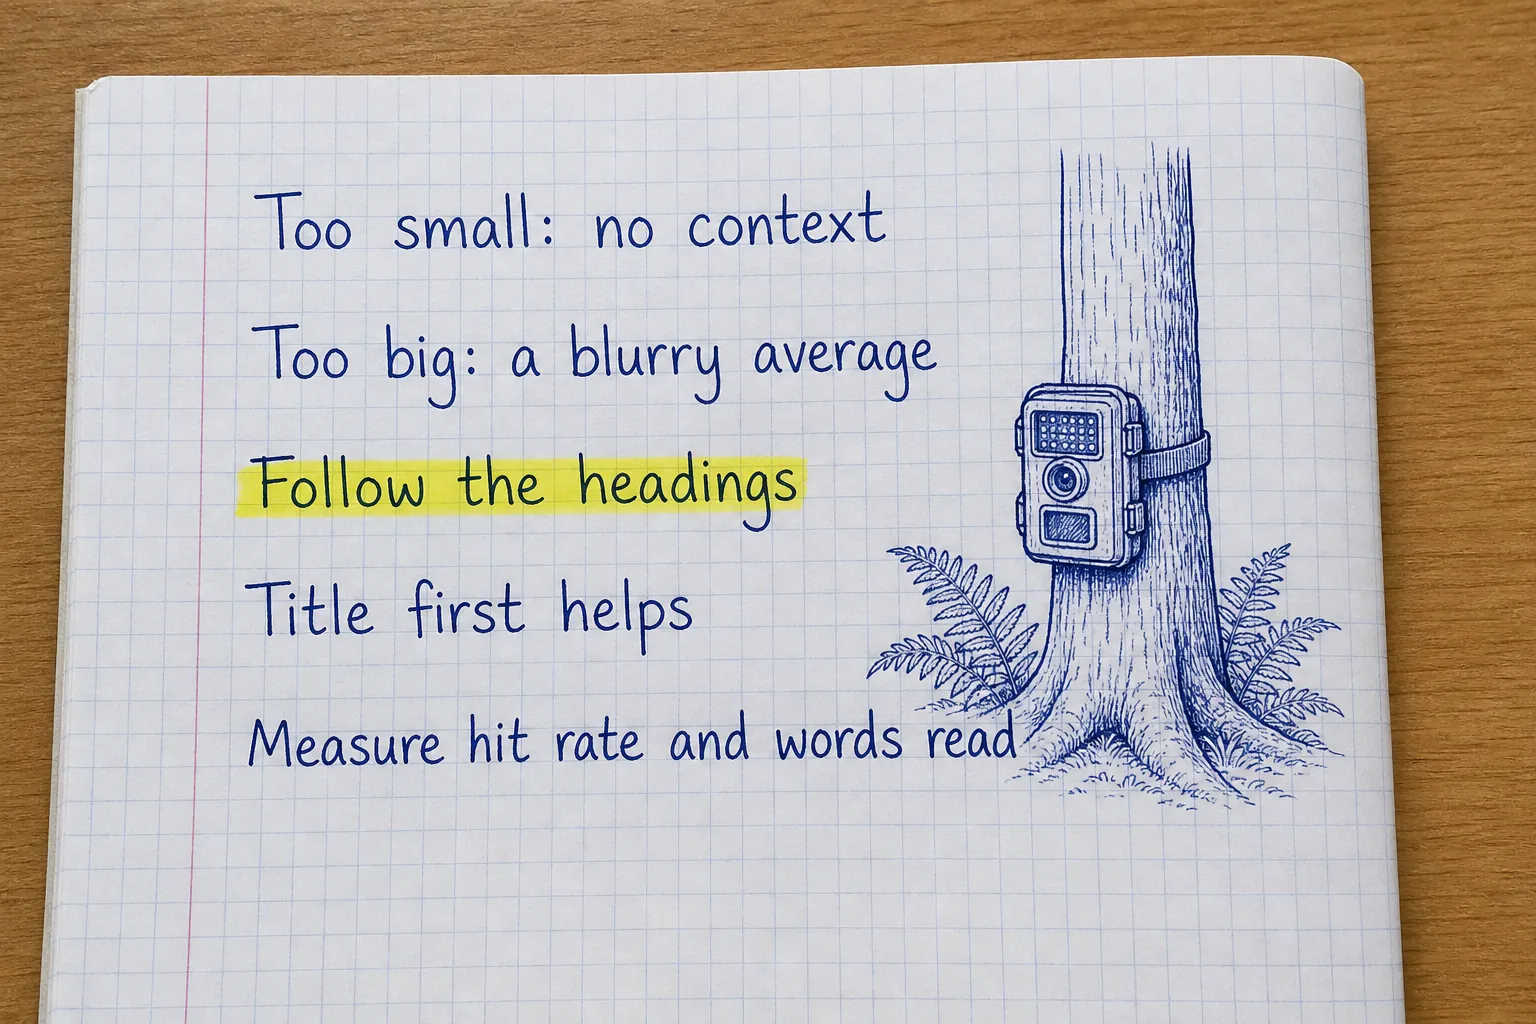
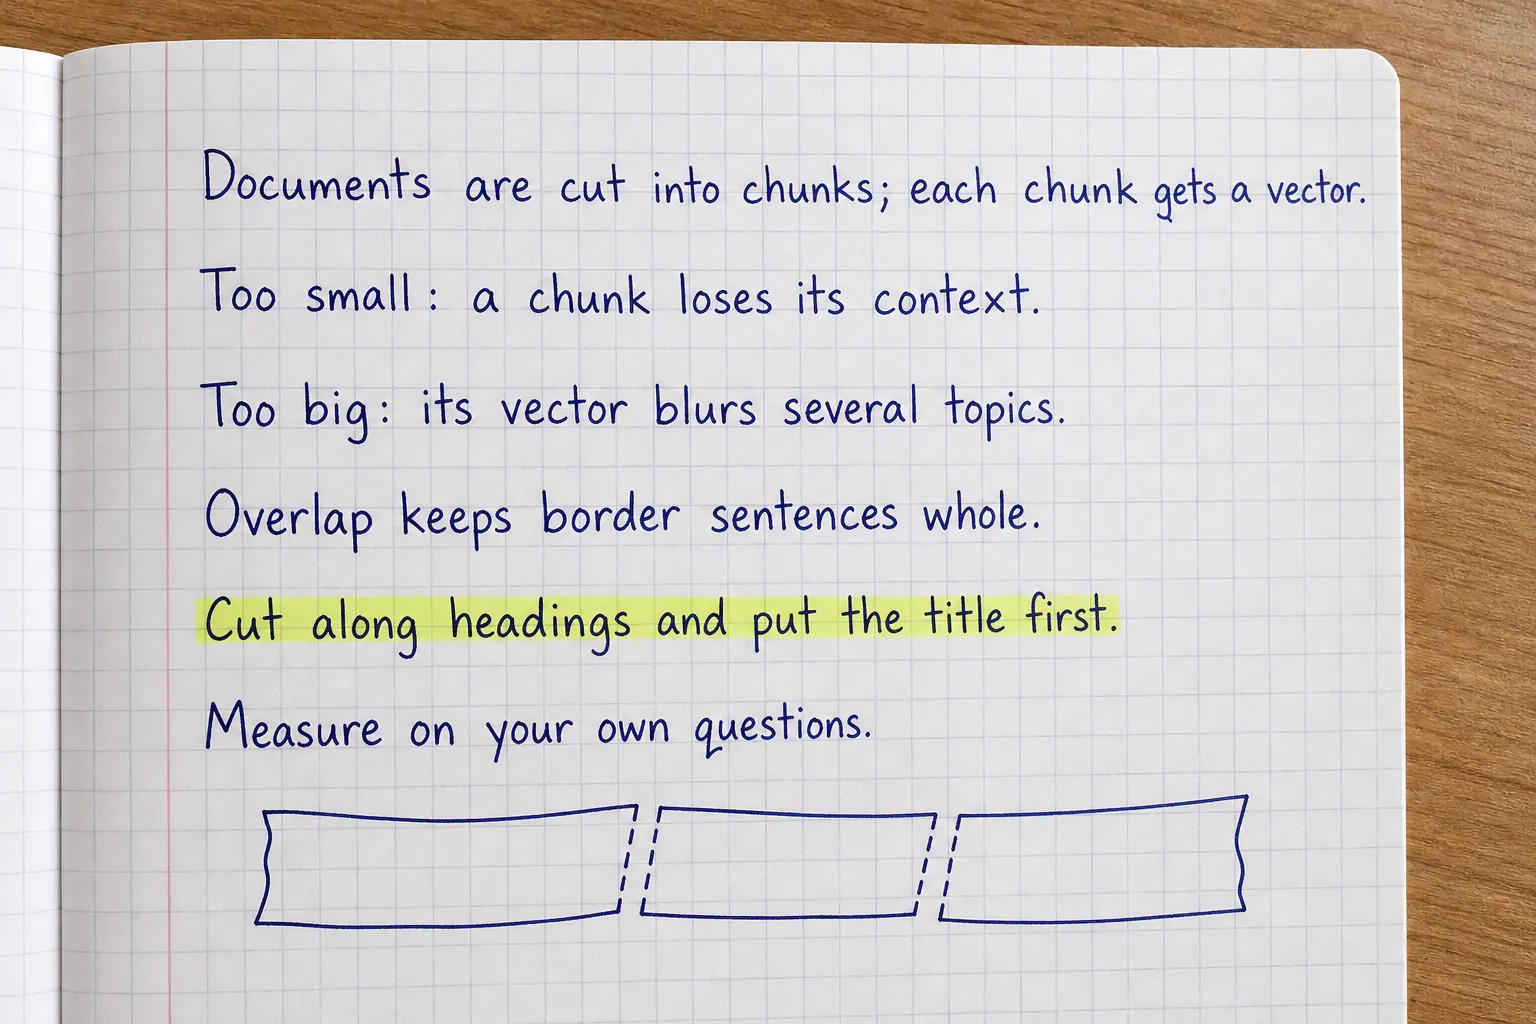
RAG chapter 4 rewritten: plain and fuller, a to-scale chunking picture with real results, claims checked

diff --git a/frontend/src/lesson/Diagrams.tsx b/frontend/src/lesson/Diagrams.tsx
@@ -3406,6 +3406,41 @@ function RagMatrix() {
   );
 }
 
+/** Three ways of cutting three real sections (FM-4.1 59 words, FM-4.2 66, FM-4.3 66), drawn to scale, with each
+ *  method's real hit@1 from chapter 4's comparison over the whole manual. */
+function RagChunks() {
+  const W = 440 / 191;                           // pixels per word: the three sections are 191 words
+  const secs = [["FM-4.1", 59], ["FM-4.2", 66], ["FM-4.3", 66]] as const;
+  const starts = [0, 59, 125];
+  const bar = (x: number, w: number, y: number, tone: string, key: string | number, label?: string) => (
+    <g key={key} className={`dg-box dg-${tone}`}>
+      <rect x={x} y={y} width={Math.max(2, w - 2)} height={26} rx={4} />
+      {label ? <text x={x + w / 2} y={y + 18} textAnchor="middle" style={{ fontSize: 12.5 }}>{label}</text> : null}
+    </g>
+  );
+  const borders = starts.slice(1).map((st) => st * W);
+  const row = (y: number, title: string, hit: string) => (
+    <><text className="dg-note" x={0} y={y - 6}>{title}</text><text className="dg-note" x={440} y={y - 6} textAnchor="end">hit@1 {hit}</text></>
+  );
+  return (
+    <Svg viewBox="0 0 440 352" label="Three sections cut four ways: 15-word windows, 60-word windows with overlap, 300-word windows, and one chunk per section; one chunk per section, title first, finds the right section first most often">
+      <text className="dg-note" x={0} y={14}>three sections of the manual, to scale (191 words)</text>
+      {secs.map(([id, n], i) => bar(starts[i] * W, n * W, 22, "accent", id, `${id}  (${n} words)`))}
+      {row(80, "windows of 15 words (cross the section borders)", "73%")}
+      {Array.from({ length: 13 }, (_, i) => bar(i * 15 * W, Math.min(15, 191 - i * 15) * W, 80, "plain", "a" + i))}
+      {row(138, "windows of 60 words, 10 overlapping", "77%")}
+      {[0, 50, 100, 150].map((st, i) => bar(st * W, Math.min(60, 191 - st) * W, 138 + (i % 2) * 14, "plain", "b" + i))}
+      {row(212, "windows of 300 words: one window holds all three and more", "77%")}
+      {bar(0, 440, 212, "plain", "c", "one blurry chunk about many things")}
+      {row(270, "one chunk per section, title first", "91%")}
+      {secs.map(([id, n], i) => bar(starts[i] * W, n * W, 270, "highlight", "d" + id, `${id}. title + text`))}
+      {borders.map((x) => <line key={x} x1={x} y1={20} x2={x} y2={300} className="dg-arrow" style={{ strokeDasharray: "3 4", markerEnd: "none" }} />)}
+      <text className="dg-note" x={0} y={326}>Dashed lines: where one section ends and the next begins.</text>
+      <text className="dg-note" x={0} y={344}>hit@1: how often the best chunk holds the right section (22 questions).</text>
+    </Svg>
+  );
+}
+
 function RagIvf() {
   return (
     <SketchSteps
@@ -3478,6 +3513,7 @@ const DIAGRAMS: Record<string, () => JSX.Element> = {
   "rag-flow": RagFlow,
   "rag-embed": RagEmbed,
   "rag-matrix": RagMatrix,
+  "rag-chunks": RagChunks,
   "rag-ivf": RagIvf,
   "rag-hnsw": RagHnsw,
   "rag-binary": RagBinary,

diff --git a/labs/rag-vector-databases/chapters/04-chunking.md b/labs/rag-vector-databases/chapters/04-chunking.md
@@ -1,15 +1,25 @@
 :::step{type=story title="How big is a piece?"}
 So far Fieldbook embedded whole sections: one vector for each of the manual's 31 numbered parts. That worked because
-somebody wrote the manual in short, tidy sections of 52 to 95 words. Real documents are rarely that kind: a 40-page
+somebody wrote the manual in short, tidy sections of 52 to 95 words each. Real documents are rarely like that: a 40-page
 research report, a 300-page procedures book, a scanned letter with no headings at all.
 
-You cannot embed a whole book as one vector: the model reads only the first few hundred words, and one point cannot stand
-for a hundred different topics. So documents are cut into pieces, called **chunks**, and each chunk gets its own vector.
-How you cut decides what search can find. Cut too small and a chunk loses the context that makes it mean anything; cut
-too big and its vector becomes a blurry average, and the model has to read pages to find one sentence.
+You cannot embed a whole book as one vector, for two reasons:
 
-This chapter writes the two most common cutters and then does what most tutorials skip: **measures** six ways of
-cutting on real questions.
+1. **The model reads only so much.** An embedding model has a limit on how much text it reads; bge-small, this course's
+   model, reads at most 512 **tokens** (the pieces a model cuts text into, about three quarters of an English word
+   each), so about 380 words. Everything after that is cut off and never seen.
+2. **One vector cannot stand for many topics.** A vector describes what a text is about. A text about a hundred things
+   gets one vector that is a little about everything and clearly about nothing.
+
+So documents are cut into pieces, called **chunks**, and each chunk gets its own vector. How you cut decides what search
+can find:
+
+- **Too small**, and a chunk loses the context that makes it mean anything ("Change them every 21 days": change what?).
+- **Too big**, and its vector becomes a blurry average of several topics, and the model has to read pages to find one
+  sentence.
+
+This chapter writes the two most common cutters and then does what most tutorials skip: it **measures** six ways of
+cutting the manual on real questions.
 
 :::mission
 Write a word-window chunker with overlap and a section chunker that follows the document's headings, then compare six
@@ -18,60 +28,87 @@ ways of cutting the manual by how often search finds the right section and how m
 :::
 
 :::step{type=concept title="Windows of words, with overlap" file="04-chunking/fieldbook.py" line="112-116"}
-The simplest cutter ignores the document's structure: take `size` words, then the next `size` words, and so on. Its
-weakness: a sentence cut in half lands in two chunks and makes sense in neither. The usual fix is **overlap**: each window
-starts a little before the previous one ended, so a sentence near a border appears whole in at least one chunk.
+The simplest cutter ignores the document's structure entirely. It takes the first `size` words, then the next `size`
+words, and so on, like sliding a window along the text. Each position of the window is one chunk.
+
+Its weakness: a window ends wherever the word count says, often in the middle of a sentence. A sentence cut in half lands
+in two chunks and makes full sense in neither.
+
+The usual fix is **overlap**: each window starts a little **before** the previous one ended, so the last few words of
+one chunk are repeated at the start of the next. A sentence that crosses a border then appears whole in at least one of
+the two chunks. The cost is a few extra chunks and some repeated words.
+
+Here is the rule with small numbers, so you can follow every step. Ten words, windows of 4 words (`size=4`), each
+repeating 2 words of the one before (`overlap=2`). Each new window starts `size - overlap = 2` words after the last one:
 
 :::trace{title="word_chunks over ten words, size 4, overlap 2"}
 | window | starts at word | words | note |
 |---|---|---|---|
 | 1 | 0 | 1 2 3 4 | |
-| 2 | 2 | 3 4 5 6 | starts size - overlap = 2 words later |
+| 2 | 2 | 3 4 5 6 | starts size - overlap = 2 words later; repeats 3 and 4 |
 | 3 | 4 | 5 6 7 8 | |
 | 4 | 6 | 7 8 9 10 | reaches the last word: stop here |
 :::
 
-The stopping rule matters. Without it, the loop would make one more window starting at word 8, "9 10", which only
-repeats the end of window 4.
+The stopping rule matters. Without it, the loop would go on to make a window starting at word 8, "9 10", which only
+repeats the end of window 4 and adds nothing.
 :::
 
 :::step{type=task task=word_chunks title="Your turn: windows of words" file="04-chunking/fieldbook.py" line="112-116"}
-Write `word_chunks(text, size=120, overlap=20)`:
+Write `word_chunks(text, size=120, overlap=20)` in `04-chunking/fieldbook.py`:
 
 1. Split the text into words with `text.split()`.
 2. Start a window every `size - overlap` words: `range(0, len(words), size - overlap)`.
-3. Join each window's words with single spaces and add it to the list.
-4. Stop right after the window that reaches the last word (`start + size >= len(words)`).
+3. For each start, join that window's words, `words[start:start + size]`, with single spaces, and add it to the list.
+4. Stop right after the window that reaches the last word: when `start + size >= len(words)`, `break`.
+
+The usual slip is the stopping rule: without the `break`, you get extra windows that only repeat the end. The check
+uses short texts where an extra window is easy to spot.
 
 Press **Check**.
 :::
 
 :::step{type=concept title="Cutting along the document's own lines" file="04-chunking/fieldbook.py" line="119-125"}
-The manual already has structure: every section starts with a line like `## FM-4.2 Meeting a tiger`. Cutting there gives
-chunks that are about **one thing** each, and every chunk carries its number and title, which a word window loses:
+The manual already has structure. It is a **Markdown** file (plain text where a line starting with `##` is a heading),
+and every section starts with a heading line like `## FM-4.2 Meeting a tiger`. Cutting at those lines gives chunks that
+are each about **one thing**, and every chunk keeps its section number and title, which a word window loses:
 
 ```text
 # Vanrai Hills Wildlife Sanctuary: Field Manual        <- the document's title: not a section
 ...
 ## FM-4.2 Meeting a tiger                               <- heading: id "FM-4.2", title "Meeting a tiger"
-If you meet a tiger, stand still, keep facing it       <- text, over several lines
+If you meet a tiger, stand still, keep facing it       <- the section's text, over several lines
 and do not run: running can trigger a chase. ...
 ```
 
-`markdown.split("\n## ")` cuts the text at every heading. The first piece is everything before the first section (the
-title and introduction), so skip it with `[1:]`. In each piece, `partition("\n")` splits the heading line from the body,
-and `" ".join(body.split())` squeezes line breaks and runs of spaces into single spaces.
+Three string methods do all the work:
 
-Most real chunkers combine both ideas: follow headings and paragraphs, and fall back to word or token windows only when a
+1. `markdown.split("\n## ")` cuts the whole file at every heading (a line break followed by `## `). The first piece is
+   everything before the first section (the document's title and introduction), so you skip it with `[1:]`.
+2. In each piece, `piece.partition("\n")` splits at the **first** line break only. It gives three parts: the heading
+   line, the line break itself, and the body. So `heading, _, body = piece.partition("\n")`.
+3. `heading.partition(" ")` splits the heading at its first space: `"FM-4.2"` (the id) and `"Meeting a tiger"` (the
+   title).
+
+Finally, `" ".join(body.split())` cleans the body: `split()` with no argument splits on any run of spaces and line
+breaks, and joining with single spaces puts it back together on one line.
+
+Most real chunkers combine both ideas: follow headings and paragraphs first, and fall back to word windows only when a
 part is too long.
 :::
 
 :::step{type=task task=section_chunks title="Your turn: one chunk per section" file="04-chunking/fieldbook.py" line="119-125"}
-Write `section_chunks(markdown)`. For every piece of `markdown.split("\n## ")[1:]`:
+Write `section_chunks(markdown)` in `04-chunking/fieldbook.py`. For every piece of `markdown.split("\n## ")[1:]`:
 
-1. Split the heading line from the body with `partition("\n")`.
-2. Split the heading into its first word (the id) and the rest (the title), again with `partition(" ")`.
-3. Squeeze the body's whitespace, and add `{"id": ..., "title": ..., "text": ...}` to the list.
+1. split the heading line from the body with `partition("\n")`;
+2. split the heading into the id and the title with `partition(" ")`;
+3. clean the body with `" ".join(body.split())`;
+4. add `{"id": ..., "title": ..., "text": ...}` to the list.
+
+Return the list. With the manual, you get 31 chunks, the first with id `FM-1.1`. A usual slip: forgetting `[1:]`, which
+adds the document's introduction as a fake first section.
+
+Then compare six ways of cutting:
 
 ```bash run
 cd /workspace/04-chunking && python compare_chunks.py
@@ -106,16 +143,18 @@ the model just what it needs to read.
 :::
 
 :::step{type=try title="Six ways to cut the manual, measured" file="04-chunking/compare_chunks.py" line="11-45"}
-`compare_chunks.py` asks the 22 test questions whose answers are in the manual (from `data/questions.json`; each lists the
-section that answers it). For each way of cutting it embeds the chunks, searches, and counts:
+`compare_chunks.py` tests six ways of cutting the manual. It uses the 22 test questions in `data/questions.json` whose
+answers are in the manual; each question lists the section that answers it. For each way of cutting, the script embeds
+the chunks, runs every question through `top_k`, and counts three things:
 
 | Column | Means |
 |---|---|
 | hit@1 | how often the **best** chunk contains the right section |
-| hit@3 | how often one of the **three** best does |
-| words read | how many words the three best chunks hold: what the model would have to read |
+| hit@3 | how often one of the **three** best chunks does |
+| words read | how many words the three best chunks hold on average: what the model would have to read |
 
-A window gets credit for every section it overlaps, so big windows are not punished for crossing borders.
+A word window can cross a section border, so a window gets credit for **every** section it touches. That is fair to
+the big windows: they are not punished just for crossing borders.
 
 ```text
 $ python compare_chunks.py
@@ -130,19 +169,31 @@ $ python compare_chunks.py
    91%   100%        204      31  one chunk per section, title first
 ```
 
-What the numbers say:
+The picture shows what the main methods do to three real sections, FM-4.1 to FM-4.3, drawn to scale, with each
+method's hit@1 from the table:
 
-1. **Tiny windows (15 words)** are cheap to read (45 words) but lose context: only 73% right at the first try.
-2. **Huge windows (300 words)** cover several sections each, so you would expect them to contain the answer; yet hit@1 is
-   only 77%, and the model would read **864 words** per question, 19 times more than the tiny windows. Their vectors are
-   averages of several topics, so they match many questions a little and none well.
-3. **Following the sections wins.** Small windows that never cross a section border and whole sections with their title
-   both reach **91%** at the first try. Adding the title helps a whole section (86% to 91%): "Meeting a tiger" is exactly
-   the kind of words a question uses.
+:::diagram{name="rag-chunks"}
+The same three sections cut four ways (the window rules applied to these three, to scale). Only one chunk per section
+keeps every chunk about one thing.
+:::
 
-From now on Fieldbook uses one chunk per section, title first (`chunk_text` in `fieldbook.py`), plus one chunk per
-patrol report. For long documents without sections, 40 to 60 word windows with some overlap are a sound start, and
-measuring on your own questions is how you decide.
+What the numbers say, for this manual and these 22 questions:
+
+1. **Tiny windows (15 words)** are cheap to read (45 words per question) but lose context: only 73% are right at the
+   first try. A 15-word piece often does not say what it is about.
+2. **Huge windows (300 words)** each cover several sections, so you might expect them to contain every answer. Yet hit@1
+   is only 77%, and the model would read **864 words** per question, 19 times more than with tiny windows. Their vectors
+   are averages of several topics, so they match many questions a little and none of them well.
+3. **Following the sections wins.** Small windows that stay inside one section, and whole sections with their title,
+   both reach **91%** at the first try. Adding the title to a whole section raised it from 86% to 91%: a title like
+   "Meeting a tiger" uses exactly the kind of words a question uses.
+
+With only 22 questions, one question is about 4.5 percentage points, so treat small differences (86% against 91%) as a
+hint, not a proof. The big ones (tiny and huge windows against sections) are clear.
+
+From now on, Fieldbook uses one chunk per section with its title first (the `chunk_text` function in `fieldbook.py`),
+plus one chunk per patrol report. For long documents without sections, windows of 40 to 60 words with some overlap are
+a sound place to start, and measuring on your own questions, as you just did, is how you decide.
 :::
 
 :::step{type=predict title="Guess first"}
@@ -153,8 +204,8 @@ A 300-word window contains the answer to a question. Why might search still not 
 - [ ] Long chunks are cut off before embedding
 - [ ] Search always prefers short chunks
 :::explain
-One vector per chunk means one "average meaning". A chunk about one thing has a sharp meaning; a chunk about five things
-has a blurry one.
+One vector per chunk means one summary of the chunk's meaning. A chunk about one thing has a sharp vector; a chunk about
+five things has a blurry one. (300 words also stay under bge-small's limit of 512 tokens, so nothing was cut off.)
 :::
 :::
 
@@ -166,7 +217,7 @@ What is overlap for?
 - [x] Keeping a sentence that crosses a window border whole in at least one chunk
 - [ ] Removing duplicate words
 :::explain
-Overlap costs a few extra chunks and saves the sentences that would otherwise be cut in half.
+Overlap costs a few extra chunks and repeated words, and saves the sentences that would otherwise be cut in half.
 :::
 :::
 
@@ -178,23 +229,24 @@ Why does every chunk keep its section id (FM-4.2)?
 - [x] So that the answer can cite its source, and so a search result can be traced back to the document
 - [ ] To make the chunk longer
 :::explain
-Metadata travels with the chunk: the id, the title, and later the zone, the date and the kind of document (chapter 8
-filters on them).
+Information stored with a chunk, like its id and title, is called **metadata**. Later chapters add more: the zone, the
+date and the kind of document (chapter 8 filters searches on them).
 :::
 :::
 
 :::step{type=deep-dive title="Go deeper: chunking real documents"}
-**Tokens, not words.** Models count tokens (about three quarters of a word in English). Production chunkers measure in
-tokens and keep chunks safely under the embedding model's limit (512 tokens for bge-small).
+**Tokens, not words.** Models count tokens, not words (in English a token is about three quarters of a word).
+Production chunkers measure chunks in tokens and keep them safely under the embedding model's limit: 512 tokens for
+bge-small; other models allow more.
 
 **Structure first.** Split on headings, then paragraphs, then sentences, and fall back to windows only for long blocks.
 Tables, code and lists need their own rules: half a table is useless.
 
-**Context for small chunks.** A chunk saying "Change them every 21 days" means little alone. Prefix each chunk with its
-document and section title (as `chunk_text` does), or retrieve small chunks and give the model the whole section they
-came from ("small to big" retrieval).
+**Context for small chunks.** A chunk that says "Change them every 21 days" means little alone. Put the document and
+section title in front of each chunk (as `chunk_text` does), or search small chunks and give the model the whole section
+they came from ("small to big" retrieval).
 
-**Re-chunking costs.** Changing how you chunk means re-embedding everything. Store the original documents, not only the
+**Re-chunking costs.** Changing how you chunk means embedding everything again. Keep the original documents, not only the
 chunks.
 :::
 
@@ -203,12 +255,12 @@ You can now:
 
 - cut text into windows of words with overlap, and stop at the right place;
 - cut a document along its own headings, keeping an id and a title with every chunk;
-- measure chunking by hit rate and by how much the model must read;
+- measure a way of cutting by how often search finds the right section and how much the model must read;
 - explain why chunks about one thing beat both tiny and huge ones.
 
 That ends Part 1. Next, chapter 5: the first of the indexes inside every vector database.
 
-:::photo{src="/lesson-images/rag/rag-04-notes.webp" alt="Handwritten notes about chunking: Too small: no context; Too big: a blurry average; Follow the headings; Title first helps; Measure hit rate and words read" ai="true"}
+:::photo{src="/lesson-images/rag/rag-04-notes.webp" alt="Handwritten notes about chunking: Documents are cut into chunks; each chunk gets a vector. Too small: a chunk loses its context. Too big: its vector blurs several topics. Overlap keeps border sentences whole. Cut along headings and put the title first. Measure on your own questions." ai="true"}
 One page of notes for this chapter.
 :::
 :::

diff --git a/CHANGELOG.md b/CHANGELOG.md
@@ -1,5 +1,17 @@
 # Changelog
 
+## 25 November: RAG chapter 4 rewritten (easy, a little detailed, checked)
+
+- Why documents are cut (the model reads at most 512 tokens, about 380 words, for bge-small; one vector cannot stand
+  for many topics), tokens, overlap, Markdown headings, `partition`, `split()` and metadata are explained where they
+  first appear; the section cutter is read line by line; tasks list their steps and the usual slips.
+- A new still picture, `rag-chunks`: three real sections (FM-4.1 59 words, FM-4.2 66, FM-4.3 66) drawn to scale and cut
+  four ways, with each method's real hit@1 from the comparison (73%, 77%, 77%, 91%).
+- Checked against the code and data: section sizes 52 to 95 words, 2,008 words in all; a window gets credit for every
+  section it touches; 864 / 45 = 19 times. Results are labelled as this manual's and these 22 questions', and the lesson
+  now says that with 22 questions one question is about 4.5 points, so 86% against 91% is a hint, not a proof. A new
+  notes page, checked letter by letter.
+
 ## 25 November: RAG chapter 3 rewritten (easy, a little detailed, checked)
 
 - Nearest-neighbour search, brute force, normalizing, `axis=-1` and `keepdims` (read line by line), the matrix product
